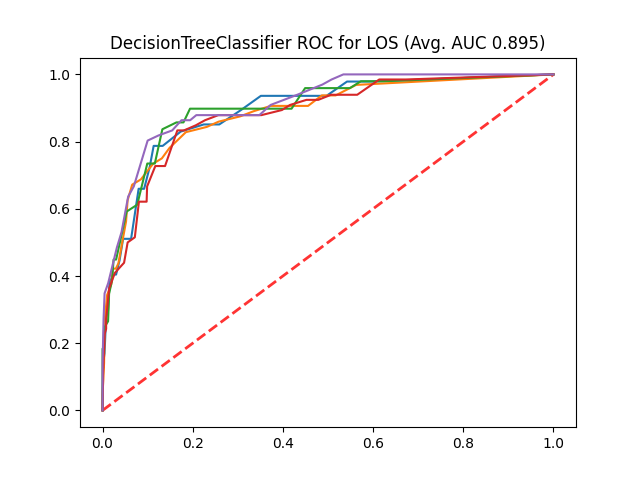
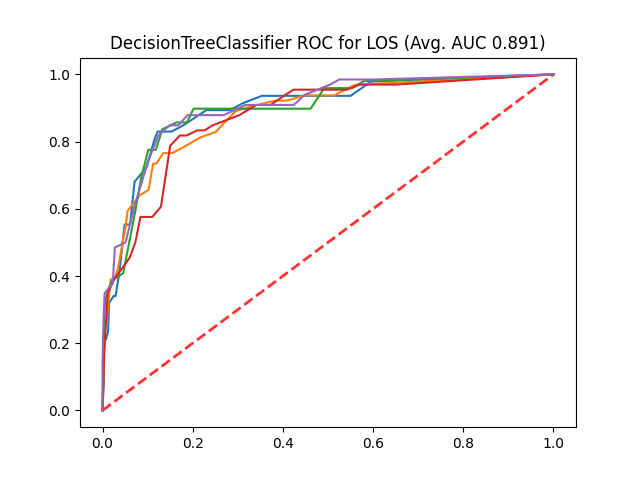
Adasyn (#14)
* #13 adasyn implemented

* changed .fit_sample to .fit_resample #13

* anasyn results #13

* Update table results

Changed region(s): [[0.1562, 0.125, 0.8438, 0.7188], [0.8125, 0.0625, 0.8438, 0.0938]]

diff --git a/modeling/__init__.py b/modeling/__init__.py
@@ -1,5 +1,5 @@
 from modeling.util import CvResult, SingleFoldResult
-from imblearn.over_sampling import SMOTE
+from imblearn.over_sampling import SMOTE, ADASYN
 from sklearn.base import clone
 from sklearn.metrics import confusion_matrix, roc_curve
 from typing import List
@@ -26,9 +26,13 @@ def do_cv(clf, df, cv) -> List[CvResult]:
             y_train = train_df[label]
             y_test = test_df[label]
 
-            # Do SMOTE (TRAINING data only)
-            oversample = SMOTE(random_state=42)
-            X_train_resampled, y_train_resampled = oversample.fit_resample(X_train, y_train)
+            # # Do SMOTE (TRAINING data only)
+            # oversample = SMOTE(random_state=42)
+            # X_train_resampled, y_train_resampled = oversample.fit_resample(X_train, y_train)
+
+            # Do ADASYN (TRAINING data only)
+            ada = ADASYN()
+            X_train_resampled, y_train_resampled = ada.fit_resample(X_train,y_train)
 
             print(f'[Cross validation] Fitting {clf.__class__.__name__} {label}-classifier to fold {idx}...')
             clf.fit(X_train_resampled, y_train_resampled)
